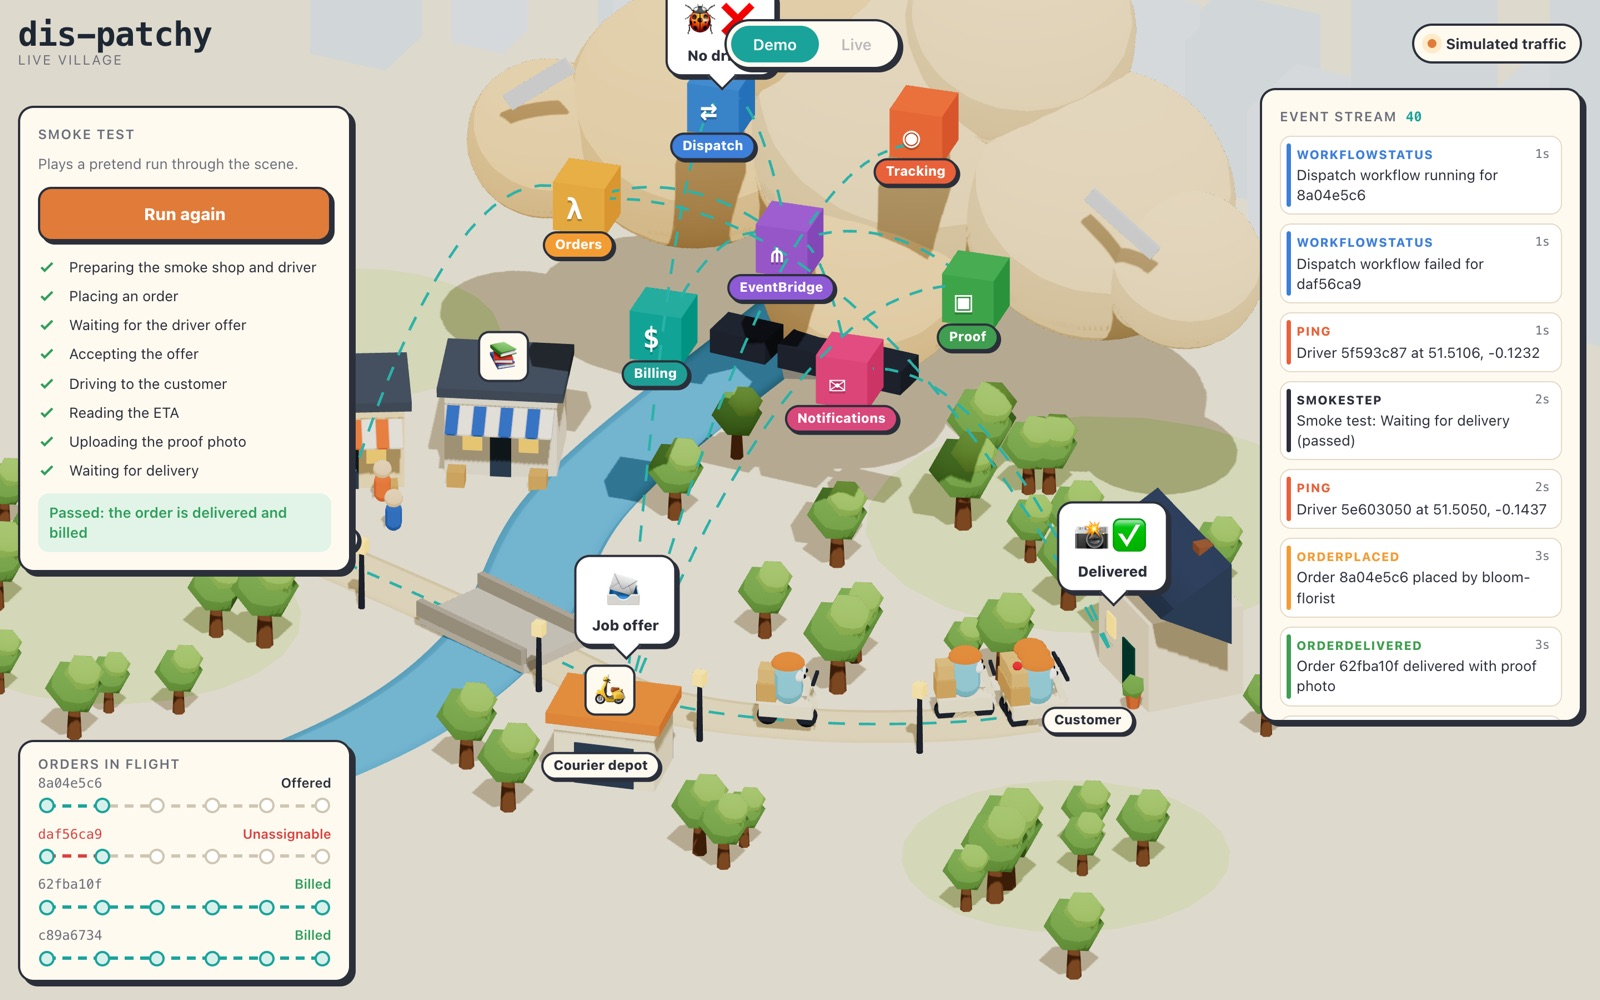
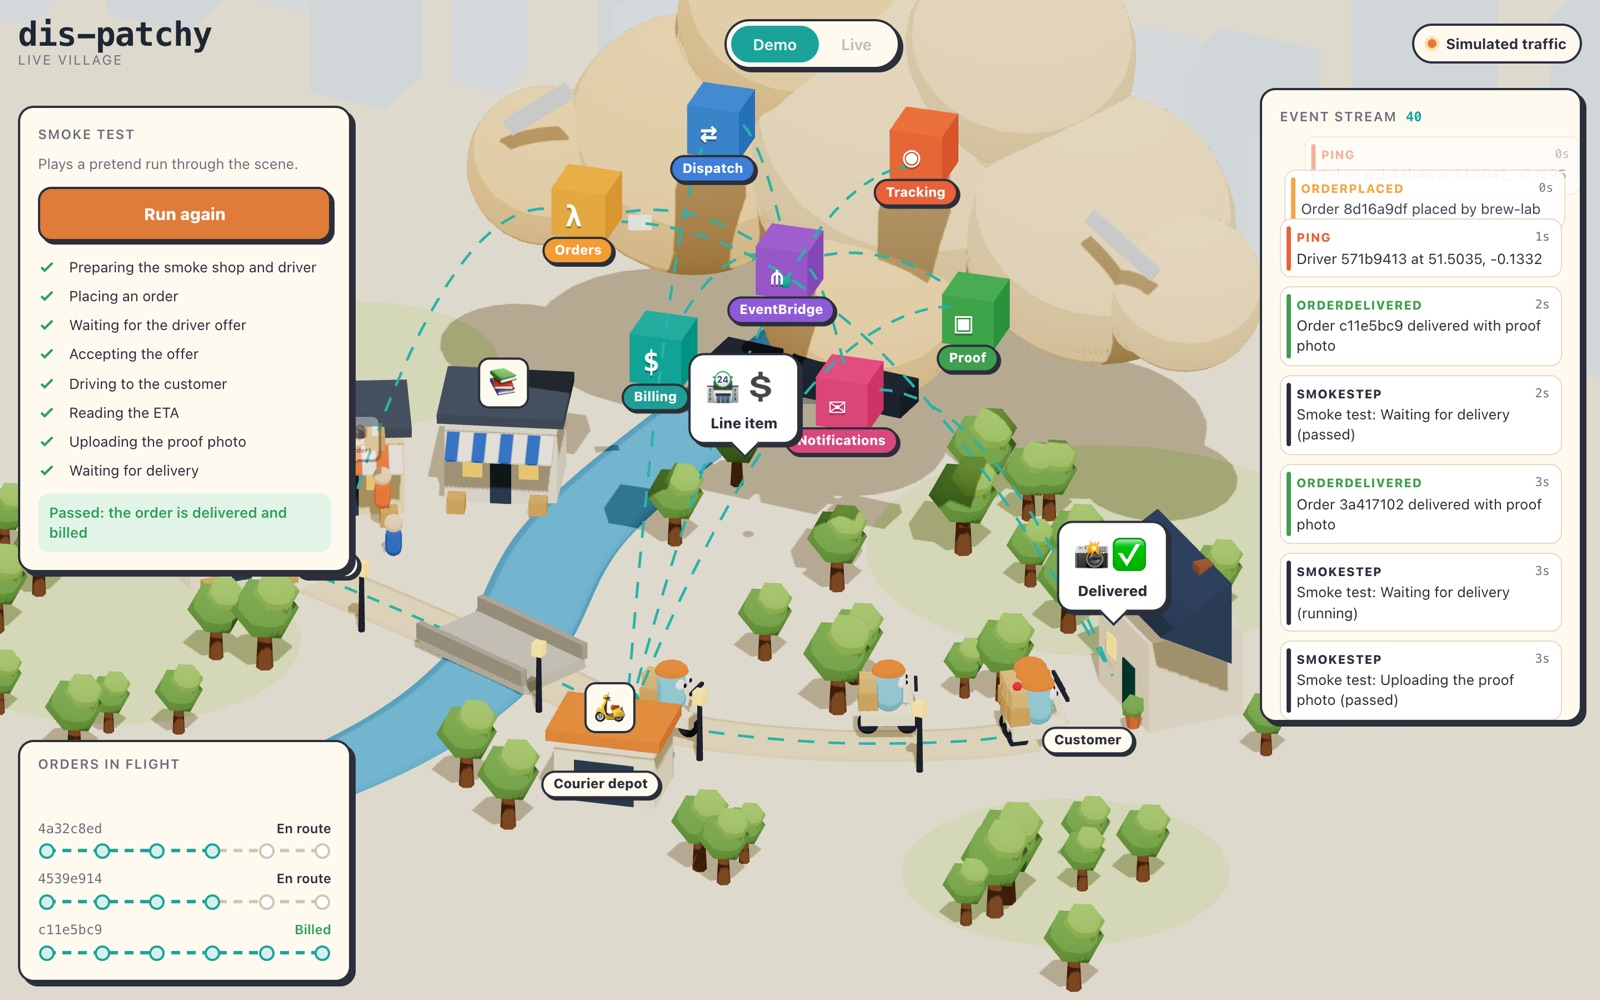
fix: let a sandbox deploy place orders and tidy the console
Without -c geocoderUrl, CreateOrder gives addresses stable stand-in
coordinates instead of calling a placeholder URL and returning 422, so the
smoke run gets past placing an order. The console's cloud bubbles no longer
sit under the top bar, and order rows keep their place instead of sliding
through each other.

Changed region(s): [[0.0, 0.0, 0.9688, 0.992], [0.6875, 0.062, 0.75, 0.124]]

diff --git a/web/console/src/hud/OrderTimeline.tsx b/web/console/src/hud/OrderTimeline.tsx
@@ -3,16 +3,18 @@ import { stages, useLive } from "../live/store";
 
 export function OrderTimeline() {
   const orders = useLive((s) => s.orders);
-  const rows = Object.values(orders)
-    .sort((a, b) => b.updatedAt - a.updatedAt)
-    .slice(0, 4);
+  // Newest first, in the order they arrived: sorting by last update would
+  // reshuffle rows on every stage change and slide them through each other.
+  const rows = Object.values(orders).slice(-4).reverse();
 
   return (
     <section className="panel timeline" aria-label="Orders in flight">
       <h2>Orders in flight</h2>
       {rows.length === 0 && <p className="empty">Waiting for the first order…</p>}
       <ul>
-        <AnimatePresence initial={false}>
+        {/* popLayout takes a leaving row out of the flow at once, so the
+            rows below slide up instead of overlapping it. */}
+        <AnimatePresence initial={false} mode="popLayout">
           {rows.map((o) => {
             const failed = o.stage === "Failed";
             const reached = failed ? 1 : stages.indexOf(o.stage as (typeof stages)[number]);
@@ -20,10 +22,11 @@ export function OrderTimeline() {
               <motion.li
                 key={o.id}
                 layout
-                initial={{ opacity: 0, y: 16 }}
+                initial={{ opacity: 0, y: 8 }}
                 animate={{ opacity: 1, y: 0 }}
-                exit={{ opacity: 0, y: -10 }}
-                transition={{ type: "spring", stiffness: 380, damping: 30 }}
+                exit={{ opacity: 0, transition: { duration: 0.12 } }}
+                // A new row fades in once the rows below have made room.
+                transition={{ type: "spring", stiffness: 380, damping: 30, opacity: { delay: 0.35, duration: 0.2 } }}
                 className={failed ? "failed" : o.stage === "Billed" ? "complete" : ""}
               >
                 <code>{o.id.slice(0, 8)}</code>

diff --git a/web/console/src/scene/Bubbles.tsx b/web/console/src/scene/Bubbles.tsx
@@ -27,7 +27,12 @@ function speech(a: Arrival): { icons: string; text: string } | undefined {
   }
 }
 
-const lift = (node: NodeId) => (nodes[node].actor ? 2.6 : 1.6);
+// Ground nodes speak from above; cloud cubes speak from beside, so their
+// bubbles stay clear of the top bar.
+function anchor(node: NodeId): [number, number, number] {
+  const [x, y, z] = nodes[node].position;
+  return nodes[node].actor ? [x, y + 2.6, z] : [x + 1.9, y - 0.7, z];
+}
 
 export function Bubbles() {
   const [now, setNow] = useState(clock());
@@ -44,9 +49,8 @@ export function Bubbles() {
   }
 
   return [...latest.values()].map(({ a, say }) => {
-    const [x, y, z] = nodes[a.node].position;
     return (
-      <Html key={`${a.node}${a.at}`} position={[x, y + lift(a.node), z]} center zIndexRange={[8, 0]} className="bubble">
+      <Html key={`${a.node}${a.at}`} position={anchor(a.node)} center zIndexRange={[8, 0]} className="bubble">
         <div>
           <span className="icons">{say.icons}</span>
           <small>{say.text}</small>

diff --git a/web/console/src/scene/Scene.tsx b/web/console/src/scene/Scene.tsx
@@ -73,7 +73,7 @@ export function Scene() {
       <Pruner />
       <FitCamera />
       <OrbitControls
-        target={[2.6, 3.4, 0.6]}
+        target={[2.6, 3.9, 0.6]}
         enablePan={false}
         enableDamping
         minPolarAngle={0.55}

diff --git a/web/console/src/styles.css b/web/console/src/styles.css
@@ -480,6 +480,7 @@ input:focus-visible {
 }
 
 .timeline ul {
+  position: relative;
   list-style: none;
   margin: 0;
   padding: 0;

diff --git a/services/orders/createorder/main.go b/services/orders/createorder/main.go
@@ -4,6 +4,7 @@ import (
 	"context"
 	"encoding/json"
 	"fmt"
+	"hash/fnv"
 	"log/slog"
 	"net/http"
 	"net/mail"
@@ -66,7 +67,21 @@ type handler struct {
 	geocoderKey string
 }
 
+// stubGeocode stands in when no geocoder is configured, as in a sandbox
+// deploy: each address gets stable made-up coordinates in central London,
+// so orders flow end to end without a geocoding account.
+func stubGeocode(address string) (lat, lng float64) {
+	h := fnv.New32a()
+	_, _ = h.Write([]byte(strings.ToLower(strings.TrimSpace(address))))
+	n := h.Sum32()
+	return 51.49 + float64(n%1000)/40_000, -0.15 + float64(n/1000%1000)/20_000
+}
+
 func (h handler) geocode(address string) (lat, lng float64, err error) {
+	if h.geocoderURL == "" {
+		lat, lng = stubGeocode(address)
+		return lat, lng, nil
+	}
 	resp, err := http.Get(fmt.Sprintf("%s?q=%s&key=%s", h.geocoderURL, url.QueryEscape(address), h.geocoderKey))
 	if err != nil {
 		return 0, 0, fmt.Errorf("geocode: %w", err)
@@ -222,12 +237,17 @@ func main() {
 	if err != nil {
 		panic(err)
 	}
-	key, err := ssm.NewFromConfig(cfg).GetParameter(context.Background(), &ssm.GetParameterInput{
-		Name:           aws.String(os.Getenv("GEOCODER_KEY_PARAM")),
-		WithDecryption: aws.Bool(true),
-	})
-	if err != nil {
-		panic("read geocoder key: " + err.Error())
+	geocoderURL := os.Getenv("GEOCODER_URL")
+	var geocoderKey string
+	if geocoderURL != "" {
+		key, err := ssm.NewFromConfig(cfg).GetParameter(context.Background(), &ssm.GetParameterInput{
+			Name:           aws.String(os.Getenv("GEOCODER_KEY_PARAM")),
+			WithDecryption: aws.Bool(true),
+		})
+		if err != nil {
+			panic("read geocoder key: " + err.Error())
+		}
+		geocoderKey = aws.ToString(key.Parameter.Value)
 	}
 	lambda.Start(handler{
 		db:          dynamodb.NewFromConfig(cfg),
@@ -236,7 +256,7 @@ func main() {
 		sender:      os.Getenv("SENDER_EMAIL"),
 		table:       os.Getenv("TABLE_NAME"),
 		bus:         os.Getenv("BUS_NAME"),
-		geocoderURL: os.Getenv("GEOCODER_URL"),
-		geocoderKey: aws.ToString(key.Parameter.Value),
+		geocoderURL: geocoderURL,
+		geocoderKey: geocoderKey,
 	}.handle)
 }

diff --git a/infra/orders.go b/infra/orders.go
@@ -21,6 +21,9 @@ type OrdersStackProps struct {
 	Bus         awsevents.IEventBus
 	AlarmTopic  awssns.ITopic
 	SenderEmail string
+	// GeocoderURL is a real geocoding endpoint. Empty uses CreateOrder's
+	// built-in stand-in, so a sandbox deploy works without one.
+	GeocoderURL string
 }
 
 // OrdersStack takes orders from shops and announces them on the bus. The
@@ -49,7 +52,7 @@ func NewOrdersStack(scope constructs.Construct, id string, props *OrdersStackPro
 		Environment: map[string]*string{
 			"TABLE_NAME":         table.TableName(),
 			"BUS_NAME":           props.Bus.EventBusName(),
-			"GEOCODER_URL":       jsii.String("https://geocode.mapsapi.example.com/v1/search"),
+			"GEOCODER_URL":       jsii.String(props.GeocoderURL),
 			"GEOCODER_KEY_PARAM": geocoderKey.ParameterName(),
 			"SENDER_EMAIL":       jsii.String(props.SenderEmail),
 		},

diff --git a/services/orders/createorder/main_test.go b/services/orders/createorder/main_test.go
@@ -1,0 +1,22 @@
+package main
+
+import "testing"
+
+func TestStubGeocodeIsStableAndInCentralLondon(t *testing.T) {
+	lat, lng := stubGeocode("1 Main St, Springfield")
+	again, againLng := stubGeocode("  1 main st, springfield ")
+	if lat != again || lng != againLng {
+		t.Errorf("same address geocoded to %v,%v and %v,%v", lat, lng, again, againLng)
+	}
+	if lat < 51.49 || lat > 51.515 || lng < -0.15 || lng > -0.10 {
+		t.Errorf("%v,%v is outside central London", lat, lng)
+	}
+}
+
+func TestGeocodeUsesTheStubWithoutAGeocoderURL(t *testing.T) {
+	lat, lng, err := handler{}.geocode("1 Main St")
+	wantLat, wantLng := stubGeocode("1 Main St")
+	if err != nil || lat != wantLat || lng != wantLng {
+		t.Errorf("got %v,%v,%v", lat, lng, err)
+	}
+}

diff --git a/main.go b/main.go
@@ -16,6 +16,13 @@ func senderEmail(app awscdk.App) string {
 	return "notifications@example.com"
 }
 
+// geocoderURL points CreateOrder at a real geocoder: -c geocoderUrl=https://...
+// Without it, orders get stand-in coordinates.
+func geocoderURL(app awscdk.App) string {
+	v, _ := app.Node().TryGetContext(jsii.String("geocoderUrl")).(string)
+	return v
+}
+
 func main() {
 	defer jsii.Close()
 
@@ -33,6 +40,7 @@ func main() {
 		Bus:         platform.Bus,
 		AlarmTopic:  platform.AlarmTopic,
 		SenderEmail: sender,
+		GeocoderURL: geocoderURL(app),
 	})
 	dispatch := infra.NewDispatchStack(app, "DisPatchy-Dispatch", &infra.DispatchStackProps{
 		StackProps:  *props,

diff --git a/README.md b/README.md
@@ -75,7 +75,8 @@ git config core.hooksPath .githooks
 go build ./... && go vet ./... && go test ./...
 npx aws-cdk@2 synth
 
-# 2. Create the geocoder key (SecureString can't be created by CloudFormation)
+# 2. Optional: use a real geocoder. Create its key (SecureString can't be
+#    created by CloudFormation), then add -c geocoderUrl=https://... to step 4
 aws ssm put-parameter --name /dis-patchy/geocoder-api-key --type SecureString --value "<your key>"
 
 # 3. Bootstrap the account/region once
@@ -94,7 +95,7 @@ npx aws-cdk@2 deploy --all -c senderEmail=you@example.com
 4. **Create users:** create users in the Cognito user pool. Shops need the `custom:shop_id` attribute and the `shops` group. Drivers need the `drivers` group.
 5. **Seed drivers:** add driver records to the `Drivers` table with `pk = DRIVER#<cognito sub>`, `sk = PROFILE`, `gsi1pk = STATUS#AVAILABLE` and `gsi1sk = <cognito sub>`. Driver onboarding is out of scope.
 
-`CreateOrder` calls a placeholder geocoder URL. Until you point it at a real geocoder, order creation returns `422`.
+Without `-c geocoderUrl`, `CreateOrder` gives each address stable stand-in coordinates in central London, so orders flow end to end in a sandbox. With it, `CreateOrder` calls that geocoder, sending the SSM key, and returns `422` for addresses it can't locate.
 
 ### Testing the deployed app
 
@@ -108,7 +109,7 @@ It takes about a minute and needs `aws`, `jq`, `curl` and [uv](https://docs.astr
 
 - `CUSTOMER_EMAIL` must be SES-verified. It should get three emails: the confirmation, the driver assignment and the delivery. The script can't check those, so look in the inbox.
 - The script creates its own test shop and driver (`smoke-shop@dispatchy.test` and `smoke-driver@dispatchy.test`), so you can skip steps 4 and 5 above. Each run sets a fresh random password and marks the driver available again.
-- On failure it prints the step and the API's error. Order creation returns `422` until the geocoder is real.
+- On failure it prints the step and the API's error.
 
 To make the calls by hand, follow the script: each step is a plain `curl`.
 
@@ -133,7 +134,7 @@ To work on the page locally, run `npm install && npm run dev` in `web/console`. 
 
 ```sh
 npx aws-cdk@2 destroy --all -c senderEmail=you@example.com
-aws ssm delete-parameter --name /dis-patchy/geocoder-api-key
+aws ssm delete-parameter --name /dis-patchy/geocoder-api-key   # if you created it
 ```
 
 The stateful resources are retained on purpose: the Cognito pool, the Orders, Drivers and Positions tables, and both photo and invoice buckets. Delete them by hand in the console once you're sure.
